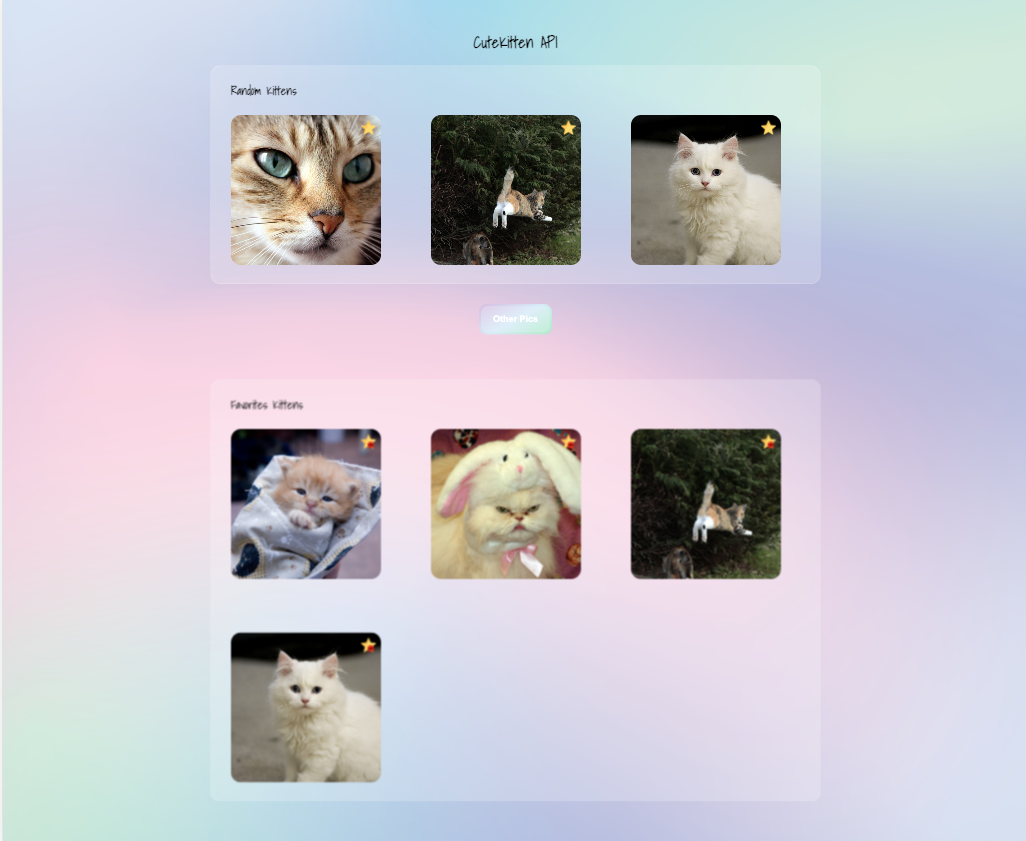
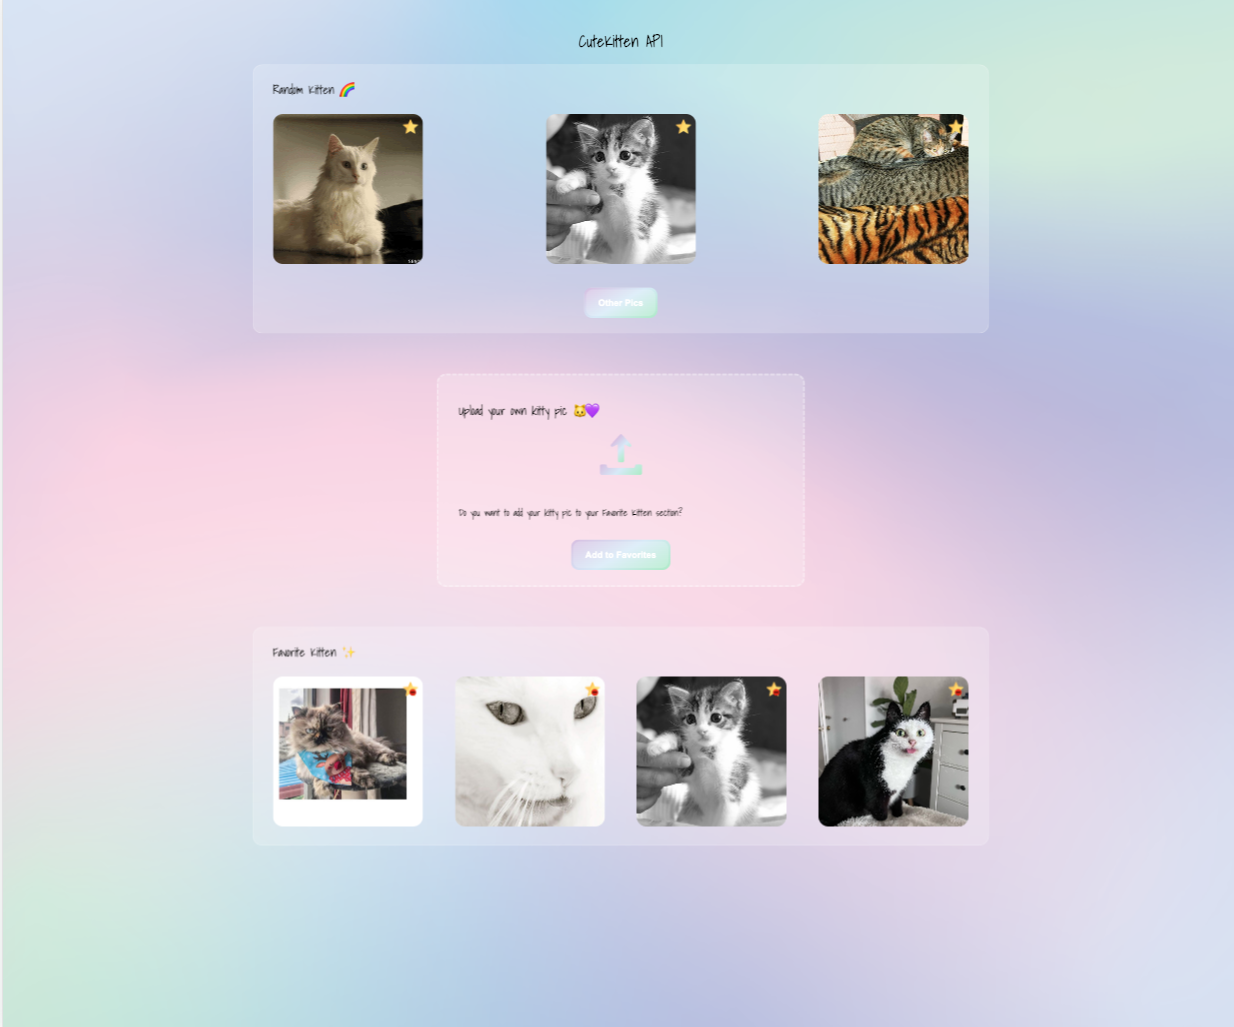
Added a function to upload your own kitten images to the API and the option to add them to the favorites section. Improvement in some texts.

diff --git a/index.html b/index.html
@@ -4,7 +4,7 @@
     <meta charset="UTF-8" />
     <meta http-equiv="X-UA-Compatible" content="IE=edge" />
     <meta name="viewport" content="width=device-width, initial-scale=1.0" />
-    <title>CuteKitten API app</title>
+    <title>🐱 CuteKitten API App</title>
     <link rel="preconnect" href="https://fonts.googleapis.com" />
     <link rel="preconnect" href="https://fonts.gstatic.com" crossorigin />
     <link
@@ -18,22 +18,62 @@
       <h1>CuteKitten API</h1>
       <span id="error"></span>
 
-      <section id="random-kittens">
-        <h2 class="random-title">Random Kitten</h2>
+      <section class="random-kittens" id="random-kittens">
+        <h2 class="random-title">Random Kitten 🌈</h2>
 
         <div id="random-kittens-container" class="random-kittens-container">
         </div>
+
+        <div class="button-box">
+          <button class="reload-kittens-images">
+            <span>Other Pics</span>
+          </button>
+        </div>
       </section>
 
-      <div class="button-box">
-        <button class="reload-kittens-images">
-          <span>Other Pics</span>
-        </button>
-      </div>
+      <section class="uploading-kitty" id="uploading-kitty">
+        <h2 class="uploading-title">Upload your own kitty pic 🐱💜</h2>
 
-      <section id="favorites-kittens">
+        <form id="uploading-form">
+
+          <label for="file">
+            <img class="upload-icon" id="upload-icon" src="./others/upload.png" alt="">
+          </label>
+          <input class="file" id="file" type="file" name="file" aria-label="Selec file">
+
+          <h3>Do you want to add your kitty pic to your Favorite Kitten section?</h3>
+
+          <div class="button-box">
+            <button class="add-favorite-kitty-image" type="button">
+              <span>Add to Favorites</span>
+            </button>
+          </div>
+        </form>
+
+      </section>
+
+      <!-- <section class="uploading-kitty" id="uploading-kitty">
+        <h2 class="uploading-title">Upload your own kitty pic</h2>
+
+        <figure class="upload-icon">
+          <img src="./others/upload.png" alt="">
+        </figure>
+
+        <form id="uploading-form">
+          <input id="file" type="file" name="file" aria-label="Selec file">
+
+          <div class="button-box">
+            <button class="upload-kitty-image" type="button">
+              <span>Upload</span>
+            </button>
+          </div>
+        </form>
+
+      </section> -->
+
+      <section class="favorites-kittens" id="favorites-kittens">
         <h2 class="favorite-title" id="title-favorites-kittens">
-          Favorite Kitten
+          Favorite Kitten ✨
         </h2>
 
         <div
@@ -43,6 +83,21 @@
           </div> 
         </div>
       </section>
+
+      <!-- <section class="uploading-kitty" id="uploading-kitty">
+        <h2 class="uploading-title">Upload the photo of your kitty</h2>
+        
+        <form id="uploading-form">
+          <input id="file" type="file" name="file" aria-label="Selec file">
+          <div class="button-box">
+            <button class="upload-kitty-image" type="button">
+              <span>Upload</span>
+            </button>
+          </div>
+        </form>
+
+      </section> -->
+
     </div>
     <script src="./script.js"></script>
   </body>

diff --git a/script.js b/script.js
@@ -1,14 +1,26 @@
 const API_URL_RANDOM = "https://api.thecatapi.com/v1/images/search?limit=3&";
 const API_URL_FAVORITES = "https://api.thecatapi.com/v1/favourites?";
+const API_URL_UPLOAD = "https://api.thecatapi.com/v1/images/upload";
 
 const apiUrlFavoriteDelete = (id) =>
   `https://api.thecatapi.com/v1/favourites/${id}?api_key=live_iZ6Eefeyg5DLUA6jbq3Hpur4QJE4fF3mIT6zQ6Q0glEARel7jl6LqfMmbcCdpVsg`;
 
 const btn = document.querySelector(".reload-kittens-images");
+const btnUpload = document.querySelector(".add-favorite-kitty-image");
 const spanError = document.getElementById("error");
 const starIcon = document.querySelectorAll(".star-icon");
+const uploadIcon = document.getElementById("upload-icon");
 
 btn.addEventListener("click", loadRandomKittens);
+
+uploadIcon.addEventListener("click", function () {
+  const input = document.getElementById("file");
+  input.addEventListener("change", uploadKittyImage);
+});
+
+// btnUpload.addEventListener("click", () => {
+//   saveFavoriteKitty(data.id);
+// });
 
 function createKittyCard({
   kitty,
@@ -156,6 +168,36 @@ async function deleteFavoriteKitty(id) {
     console.log("Kitty removed from favorites");
   }
   loadFavoritesKittens();
+}
+
+async function uploadKittyImage() {
+  const form = document.getElementById("uploading-form");
+  const formData = new FormData(form);
+
+  console.log(formData.get("file"));
+
+  const response = await fetch(API_URL_UPLOAD, {
+    method: "POST",
+    headers: {
+      // "content-type": "multipart/form-data",
+      "X-API-KEY":
+        "live_iZ6Eefeyg5DLUA6jbq3Hpur4QJE4fF3mIT6zQ6Q0glEARel7jl6LqfMmbcCdpVsg",
+    },
+    body: formData,
+  });
+  const data = await response.json();
+
+  if (response.status !== 201) {
+    spanError.innerText = `Error ${response.status}. Try later.`;
+  } else {
+    console.log("Cat photo uploaded successfully");
+    console.log(data);
+    console.log(data.url);
+
+    btnUpload.addEventListener("click", () => {
+      saveFavoriteKitty(data.id);
+    });
+  }
 }
 
 loadRandomKittens();

diff --git a/style.css b/style.css
@@ -15,8 +15,9 @@ h1 {
   text-align: center;
 }
 
-#random-kittens,
-#favorites-kittens {
+.random-kittens,
+.favorites-kittens,
+.uploading-kitty {
   flex-wrap: wrap;
   margin: 0 auto;
   border-radius: 20px;
@@ -33,8 +34,16 @@ h1 {
 .favorites-kittens-container {
   display: flex;
   flex-wrap: wrap;
-  gap: 100px;
+  justify-content: space-between;
 }
+
+/* .random-kittens-container,
+.favorites-kittens-container {
+  display: grid;
+  grid-template-columns: repeat(3, 1fr);
+  grid-gap: 20px;
+  grid-auto-flow: row dense;
+} */
 
 .random-title,
 .favorite-title {
@@ -70,8 +79,13 @@ h1 {
   height: 300px;
   object-fit: cover;
 }
+
+.image-container .image:last-child:nth-child(3n-1) {
+  grid-column: 2 / 4;
+}
+
 .button-box {
-  margin: 40px 0 90px 0;
+  margin-top: 40px;
   display: flex;
   justify-content: center;
   align-items: center;
@@ -100,10 +114,47 @@ button:hover span {
 button:active {
   transform: scale(0.9);
 }
-#favorites-kittens {
+.favorites-kittens {
   margin-top: 80px;
 }
 .favorites-kittens-container {
   height: auto;
   overflow: auto;
+}
+
+.uploading-kitty {
+  margin-top: 80px;
+  flex-wrap: wrap;
+  border-radius: 20px;
+  width: 30%;
+  background-color: rgba(255, 255, 255, 0.2);
+  backdrop-filter: blur(1px);
+  padding: 30px 40px;
+  border: 4px dashed rgba(255, 255, 255, 0.3);
+  position: relative;
+  text-align: start;
+  box-sizing: border-box;
+}
+
+.uploading-kitty:hover {
+  background-color: rgba(255, 255, 255, 0.38);
+}
+label {
+  display: flex;
+  justify-content: center;
+  align-items: center;
+  margin-bottom: 50px;
+}
+label img {
+  display: block;
+  width: 100px;
+}
+/* .upload-icon img {
+  width: 50px;
+} */
+.upload-icon:hover {
+  cursor: pointer;
+}
+.file {
+  display: none;
 }
